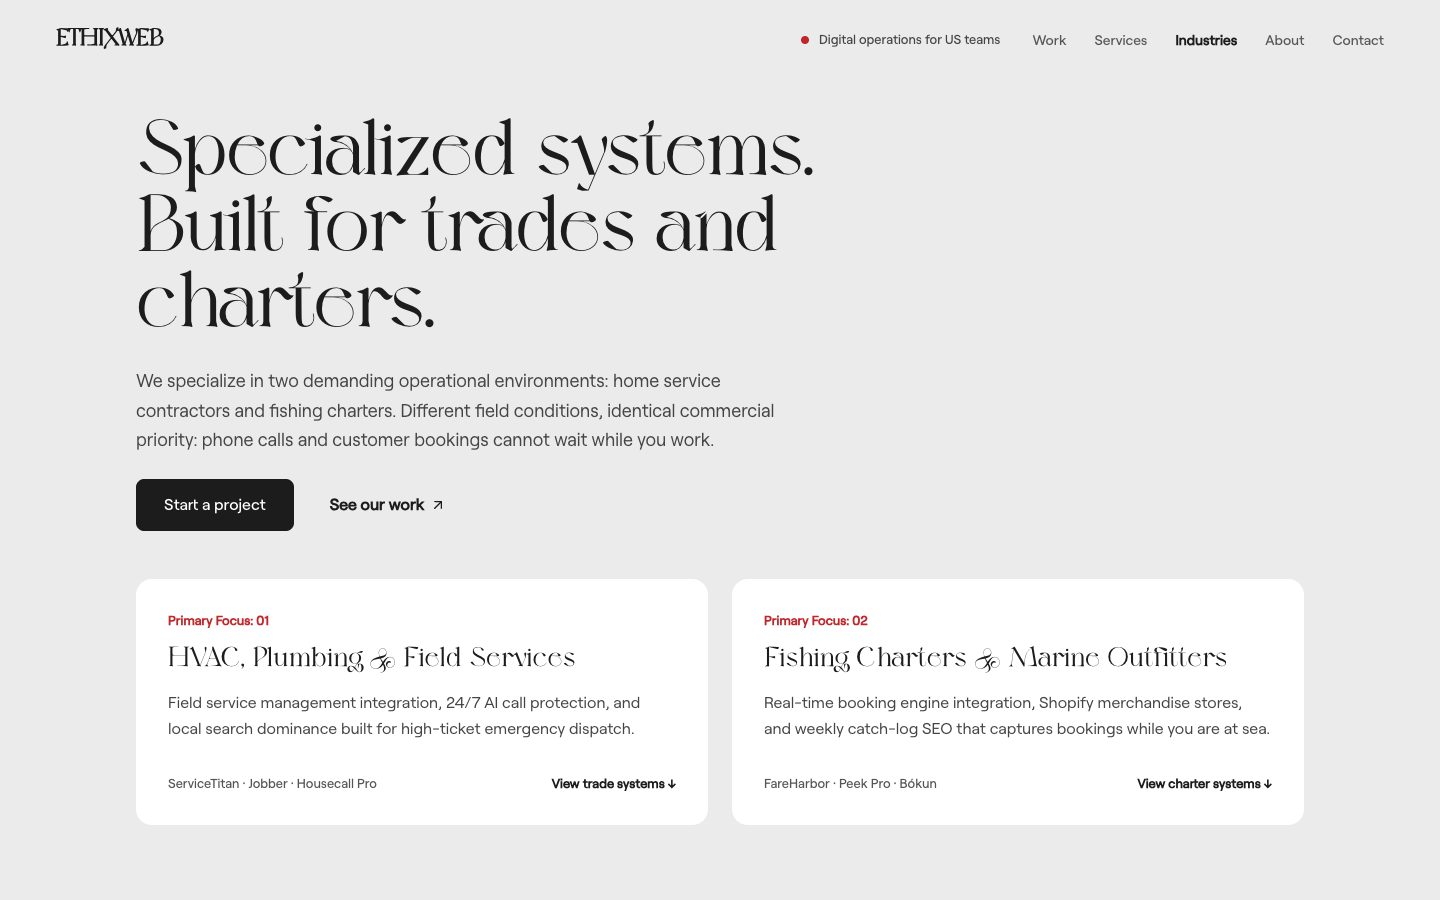
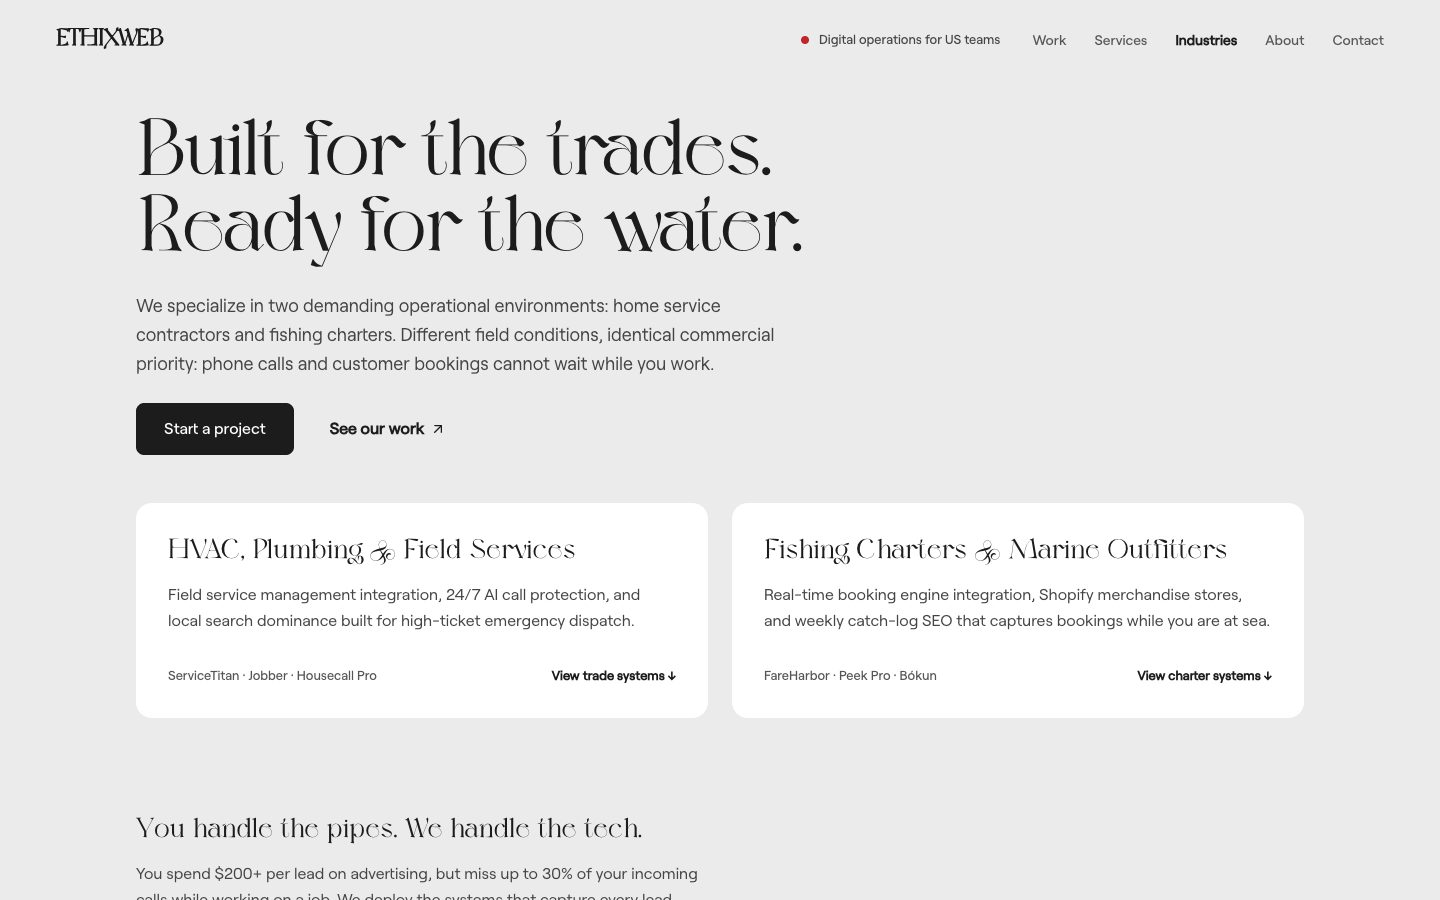
refactor: redesign IndustriesPage layout and remove inspection image assets

diff --git a/src/pages/IndustriesPage.jsx b/src/pages/IndustriesPage.jsx
@@ -1,6 +1,6 @@
 import React from 'react';
 import { Link } from 'react-router-dom';
-import { ArrowUpRight, CheckCircle2 } from 'lucide-react';
+import { ArrowUpRight } from 'lucide-react';
 import TopBar from '../components/TopBar';
 
 const TRADES_CAPABILITIES = [
@@ -50,14 +50,14 @@ export default function IndustriesPage() {
       <main className="w-full flex flex-col gap-16 md:gap-24 py-8 md:py-12 flex-1">
         {/* ── SECTION 1: LIST / HERO OVERVIEW ── */}
         <section className="w-full max-w-7xl mx-auto px-6 md:px-10 lg:px-14 flex flex-col gap-12">
-          {/* Main Statement */}
+          {/* Main Statement — 2 lines strictly across all viewports */}
           <div className="flex flex-col gap-5 max-w-4xl">
             <h1
               className="font-display text-[32px] sm:text-[48px] md:text-[clamp(4.2rem,5.6vw,5.5rem)] leading-[0.96] md:leading-[0.94] tracking-tight text-[#1c1c1c] font-normal"
               data-rise="1"
             >
-              <span className="block">Specialized systems.</span>
-              <span className="block text-[#1c1c1c]">Built for trades and charters.</span>
+              <span className="block">Built for the trades.</span>
+              <span className="block text-[#1c1c1c]">Ready for the water.</span>
             </h1>
 
             <p
@@ -89,11 +89,10 @@ export default function IndustriesPage() {
           <div className="grid grid-cols-1 md:grid-cols-2 gap-6" data-rise="4">
             <div className="bg-[#ffffff] rounded-2xl p-6 md:p-8 flex flex-col justify-between gap-6">
               <div className="flex flex-col gap-3">
-                <span className="text-[13px] font-semibold text-[#c0272d]">Primary Focus: 01</span>
                 <h2 className="font-display text-[22px] sm:text-[28px] font-normal text-[#1c1c1c] leading-tight">
                   HVAC, Plumbing &amp; Field Services
                 </h2>
-                <p className="text-base text-[#444444] leading-relaxed">
+                <p className="text-base text-[#444444] leading-relaxed max-w-xl">
                   Field service management integration, 24/7 AI call protection, and local search dominance built for high-ticket emergency dispatch.
                 </p>
               </div>
@@ -111,11 +110,10 @@ export default function IndustriesPage() {
 
             <div className="bg-[#ffffff] rounded-2xl p-6 md:p-8 flex flex-col justify-between gap-6">
               <div className="flex flex-col gap-3">
-                <span className="text-[13px] font-semibold text-[#c0272d]">Primary Focus: 02</span>
                 <h2 className="font-display text-[22px] sm:text-[28px] font-normal text-[#1c1c1c] leading-tight">
                   Fishing Charters &amp; Marine Outfitters
                 </h2>
-                <p className="text-base text-[#444444] leading-relaxed">
+                <p className="text-base text-[#444444] leading-relaxed max-w-xl">
                   Real-time booking engine integration, Shopify merchandise stores, and weekly catch-log SEO that captures bookings while you are at sea.
                 </p>
               </div>
@@ -136,38 +134,32 @@ export default function IndustriesPage() {
         {/* ── SECTION 2: FEATURES ── */}
         <section className="w-full max-w-7xl mx-auto px-6 md:px-10 lg:px-14 flex flex-col gap-20">
           {/* Feature Pillar 1: Trades (HVAC & Plumbing) */}
-          <div id="trades" className="flex flex-col gap-10 scroll-mt-24" data-rise="5">
-            <div className="flex flex-col gap-4 max-w-3xl">
+          <div id="trades" className="flex flex-col gap-8 scroll-mt-24" data-rise="5">
+            <div className="flex flex-col gap-3 max-w-2xl">
               <h2 className="font-display text-[22px] sm:text-[28px] font-normal text-[#1c1c1c] leading-tight">
                 You handle the pipes. We handle the tech.
               </h2>
-              <p className="text-base text-[#444444] leading-relaxed">
+              <p className="text-base text-[#444444] leading-relaxed max-w-xl">
                 You spend $200+ per lead on advertising, but miss up to 30% of your incoming calls while working on a job.
-                In home services, that translates to thousands of dollars in lost revenue every single month. We deploy the systems that capture every lead.
+                We deploy the systems that capture every lead.
               </p>
             </div>
 
             {/* Evidence & Case Study Visuals */}
             <div className="grid grid-cols-1 lg:grid-cols-12 gap-8 items-start">
-              {/* Left Column: 4 Specific Capabilities */}
-              <div className="lg:col-span-7 flex flex-col gap-3.5">
-                {TRADES_CAPABILITIES.map((cap, idx) => (
-                  <div
-                    key={cap.title}
-                    className="bg-[#ffffff] rounded-2xl p-5 md:p-6 flex flex-col gap-2"
-                    data-rise={String(idx + 6)}
-                  >
-                    <div className="flex items-center gap-2">
-                      <CheckCircle2 className="w-4 h-4 text-[#c0272d] shrink-0" />
-                      <h3 className="font-semibold text-base text-[#1c1c1c]">{cap.title}</h3>
-                    </div>
-                    <p className="text-base text-[#444444] leading-relaxed pl-6">{cap.desc}</p>
+              {/* Left Column: Composed Editorial Surface */}
+              <div className="lg:col-span-6 bg-[#ffffff] rounded-2xl p-6 md:p-8 flex flex-col gap-6" data-rise="6">
+                <h3 className="font-semibold text-base text-[#c0272d]">Built for Service Contractors</h3>
+                {TRADES_CAPABILITIES.map((cap) => (
+                  <div key={cap.title} className="flex flex-col gap-1.5">
+                    <h4 className="font-semibold text-base text-[#1c1c1c]">{cap.title}</h4>
+                    <p className="text-base text-[#444444] leading-relaxed">{cap.desc}</p>
                   </div>
                 ))}
               </div>
 
               {/* Right Column: Real Case Study Screenshots & Metrics */}
-              <div className="lg:col-span-5 flex flex-col gap-4" data-rise="10">
+              <div className="lg:col-span-6 flex flex-col gap-4" data-rise="7">
                 <div className="bg-[#ffffff] rounded-2xl p-5 md:p-6 flex flex-col gap-4">
                   <div className="aspect-[16/10] rounded-xl overflow-hidden bg-[#e5e5e5]">
                     <img
@@ -204,38 +196,32 @@ export default function IndustriesPage() {
           </div>
 
           {/* Feature Pillar 2: Marine Charters & Outfitters */}
-          <div id="charters" className="flex flex-col gap-10 scroll-mt-24" data-rise="11">
-            <div className="flex flex-col gap-4 max-w-3xl">
+          <div id="charters" className="flex flex-col gap-8 scroll-mt-24" data-rise="8">
+            <div className="flex flex-col gap-3 max-w-2xl">
               <h2 className="font-display text-[22px] sm:text-[28px] font-normal text-[#1c1c1c] leading-tight">
                 Your business shouldn't stop at the shoreline.
               </h2>
-              <p className="text-base text-[#444444] leading-relaxed">
-                You are at sea 10 hours a day with your hands on the wheel and fishing rods. While you are on the water, customers are trying to book trips.
-                If they cannot confirm a seat and pay their deposit instantly, they book another boat. We automate your entire dock-to-departure workflow.
+              <p className="text-base text-[#444444] leading-relaxed max-w-xl">
+                You are at sea 10 hours a day with your hands on the wheel and fishing rods.
+                If customers cannot confirm a seat and pay their deposit instantly, they book another boat.
               </p>
             </div>
 
             {/* Evidence & Case Study Visuals */}
             <div className="grid grid-cols-1 lg:grid-cols-12 gap-8 items-start">
-              {/* Left Column: 4 Specific Capabilities */}
-              <div className="lg:col-span-7 flex flex-col gap-3.5">
-                {CHARTER_CAPABILITIES.map((cap, idx) => (
-                  <div
-                    key={cap.title}
-                    className="bg-[#ffffff] rounded-2xl p-5 md:p-6 flex flex-col gap-2"
-                    data-rise={String(idx + 12)}
-                  >
-                    <div className="flex items-center gap-2">
-                      <CheckCircle2 className="w-4 h-4 text-[#c0272d] shrink-0" />
-                      <h3 className="font-semibold text-base text-[#1c1c1c]">{cap.title}</h3>
-                    </div>
-                    <p className="text-base text-[#444444] leading-relaxed pl-6">{cap.desc}</p>
+              {/* Left Column: Composed Editorial Surface */}
+              <div className="lg:col-span-6 bg-[#ffffff] rounded-2xl p-6 md:p-8 flex flex-col gap-6" data-rise="9">
+                <h3 className="font-semibold text-base text-[#c0272d]">Built for Charter Fleets</h3>
+                {CHARTER_CAPABILITIES.map((cap) => (
+                  <div key={cap.title} className="flex flex-col gap-1.5">
+                    <h4 className="font-semibold text-base text-[#1c1c1c]">{cap.title}</h4>
+                    <p className="text-base text-[#444444] leading-relaxed">{cap.desc}</p>
                   </div>
                 ))}
               </div>
 
               {/* Right Column: Real Case Study Screenshots & Metrics */}
-              <div className="lg:col-span-5 flex flex-col gap-4" data-rise="16">
+              <div className="lg:col-span-6 flex flex-col gap-4" data-rise="10">
                 <div className="bg-[#ffffff] rounded-2xl p-5 md:p-6 flex flex-col gap-4">
                   <div className="aspect-[16/10] rounded-xl overflow-hidden bg-[#e5e5e5]">
                     <img
@@ -255,7 +241,7 @@ export default function IndustriesPage() {
                 <div className="bg-[#ffffff] rounded-2xl p-5 md:p-6 flex flex-col gap-4">
                   <div className="aspect-[16/10] rounded-xl overflow-hidden bg-[#e5e5e5]">
                     <img
-                      src="/images/case-studies/garys-pipelining/after-screenshot.webp"
+                      src="/images/case-studies/garys-pipeline/after-screenshot.webp"
                       alt="Gary's Pipelining high-ticket commercial specialization"
                       className="w-full h-full object-cover"
                       loading="eager"
@@ -276,7 +262,7 @@ export default function IndustriesPage() {
         <section className="w-full max-w-7xl mx-auto px-6 md:px-10 lg:px-14 py-8">
           <div
             className="bg-[#1c1c1c] text-[#ffffff] rounded-3xl p-8 md:p-14 flex flex-col items-center text-center gap-6"
-            data-rise="20"
+            data-rise="11"
           >
             <h2 className="font-display text-[24px] sm:text-[36px] md:text-[44px] font-normal text-[#ffffff] max-w-3xl leading-tight">
               Which industry are you in?
